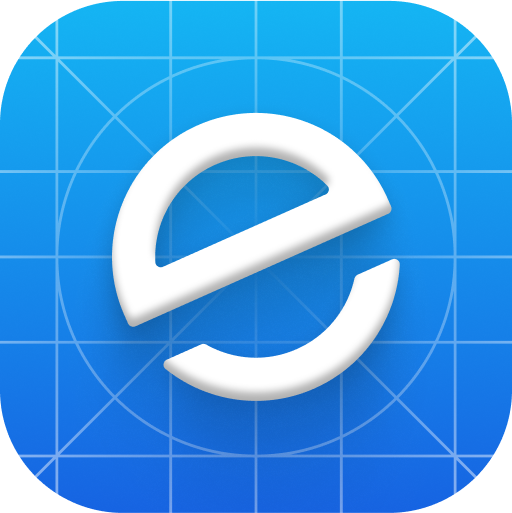
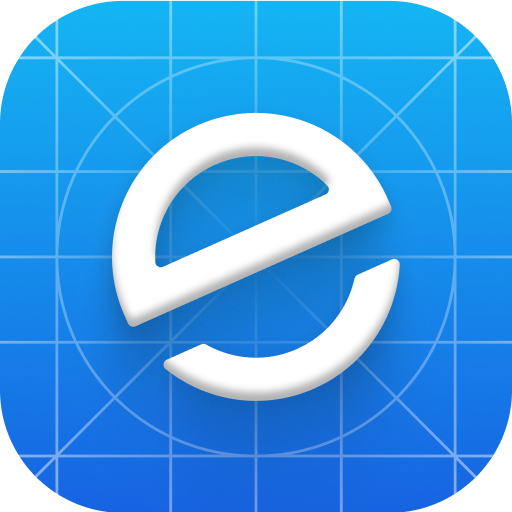
feat: brave pos rebrand, receipt printing, mobile UI fixes, EAS build setup
- Rebrand: Silom POS → Brave POS across receipt footer, EDC pane, app.json
  (name, slug, scheme, package id com.bravebrand.pos)
- Receipt printing: backend/printer.py with Sarabun Thai support, ESC/POS
  via python-escpos, USB/network/Windows-driver transports
- Mobile UI fixes in pos.tsx: payment modal scroll, cart sheet sizing,
  customer/parked/discount modal widths, Order Hub collapsible columns,
  Drawer + Discount toolbar icons on narrow screens
- App icons cropped 512×513 → 512×512, splash-icon.png added
- EAS Build config (eas.json preview/production profiles)
- GitHub Actions workflow auto-builds APK on push to main

diff --git a/frontend/app/pos.tsx b/frontend/app/pos.tsx
@@ -1275,7 +1275,7 @@ function PaymentModal({
                   <Ionicons name="print" size={64} color="#00B14F" />
                 </View>
                 <Text style={styles.edcTitle}>
-                  Connect Silom POS with Electronic Data Capture (EDC) payment terminal no need
+                  Connect Brave POS with Electronic Data Capture (EDC) payment terminal no need
                   to manual input data, supporting both credit and debit cards (VISA, MasterCard,
                   JCB, UnionPay)
                 </Text>

diff --git a/backend/printer.py b/backend/printer.py
@@ -232,7 +232,7 @@ def render_receipt(order: dict, settings: dict, paper_width_mm: int = 80) -> Ima
     line("THANK YOU FOR YOUR SHOPPING", font_bold, align="center")
     if phone:
         line(f"Tel. {phone}", font_small, align="center")
-    line("Powered by Silom POS", font_small, align="center")
+    line("Powered by Brave POS", font_small, align="center")
 
     y += pad
 

diff --git a/backend/tests/conftest.py b/backend/tests/conftest.py
@@ -1,5 +1,5 @@
 """
-conftest.py — test environment bootstrap for the silom-pos backend test suite.
+conftest.py — test environment bootstrap for the brave-pos backend test suite.
 
 server.py reads MONGO_URL and DB_NAME from os.environ at *import time* and
 immediately creates an AsyncIOMotorClient.  Tests that do ``import server``
